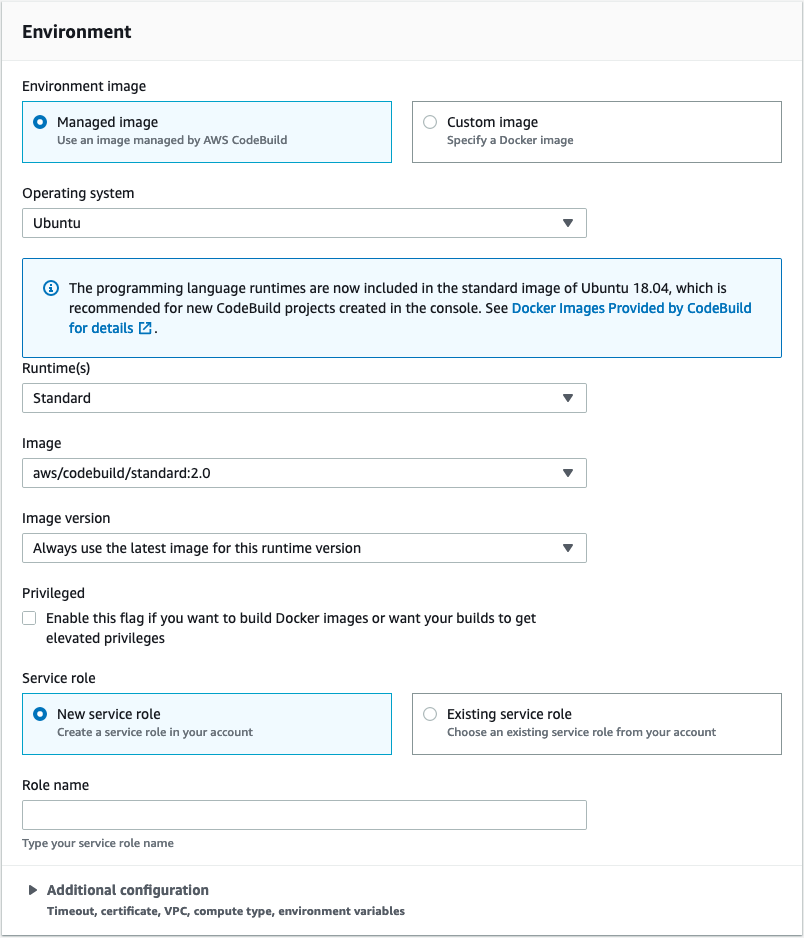
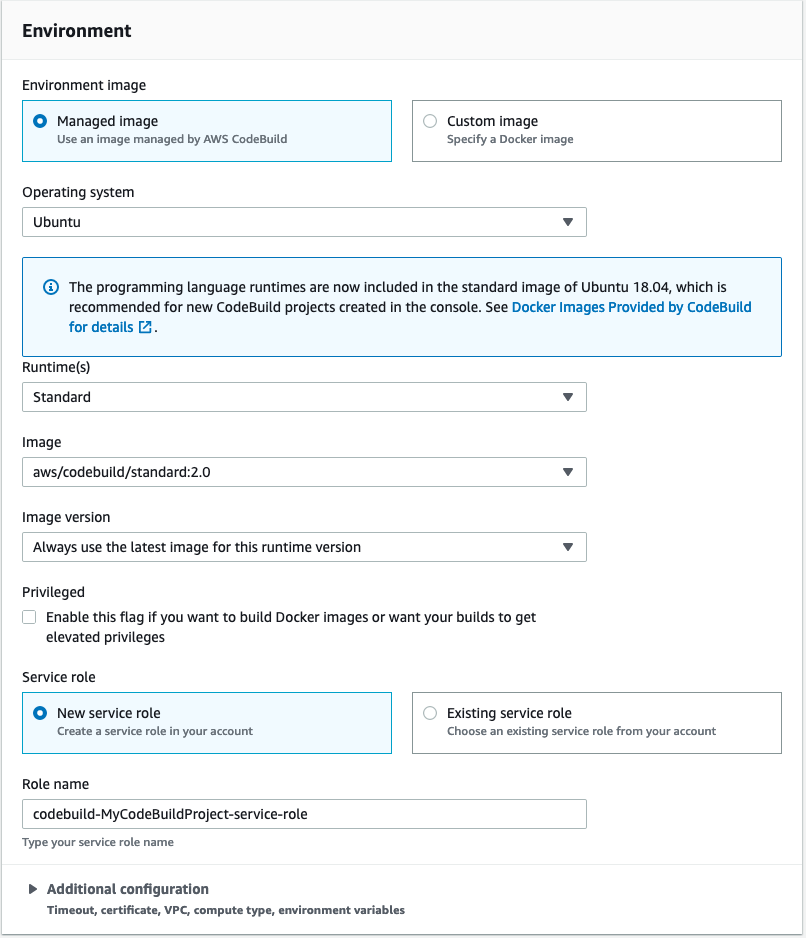
v3

diff --git a/1_Lab1.md b/1_Lab1.md
@@ -1,22 +1,12 @@
 ## Lab 1 - Build project on the cloud
 
-### Lab IAM Permissions
-As the AWS accounts you are about to use are **lab accounts**, they do not have permissions to make any changes to IAM settings. For any commands/steps that requires IAM Role ARN, please kindly use the pre-created role: **TeamRole**.
-
-https://console.aws.amazon.com/iam/home?region=ap-southeast-1#/roles/TeamRole
-
-***It will be useful to note down the ARN for Team Role which will be required throughout the lab***
-![TeamRole](img/teamrole.png)
-
 ### AWS Cloud9 IDE - Set up
 
-AWS Cloud9 is a cloud-based integrated development environment (IDE) that lets you write, run, and debug your code with just a browser. It includes a code editor, debugger, and terminal. Cloud9 comes pre-packaged with essential tools for popular programming languages and the AWS Command Line Interface (CLI) pre-installed so you don't need to install files or configure your laptop for this workshop. Your Cloud9 environment will have access to the same AWS resources as the user with which you logged into the AWS Management Console.
+**AWS Cloud9** is a cloud-based integrated development environment (IDE) that lets you write, run, and debug your code with just a browser. It includes a code editor, debugger, and terminal. Cloud9 comes pre-packaged with essential tools for popular programming languages and the AWS Command Line Interface (CLI) pre-installed so you don't need to install files or configure your laptop for this workshop. Your Cloud9 environment will have access to the same AWS resources as the user with which you logged into the AWS Management Console.
 
-Take a moment now and setup your Cloud9 development environment.
+Take a moment now to setup your Cloud9 development environment.
 
-### ✅  Step-by-step Instructions
-
-1. Go to the AWS Management Console, click **Services** then select **Cloud9** under Developer Tools.
+1. Head over to the [AWS Cloud9](https://ap-southeast-1.console.aws.amazon.com/cloud9/home?region=ap-southeast-1) console.
 2. Click **Create environment**.
 3. Enter `MyDevEnvironment` into **Name** and optionally provide a **Description**.
 
@@ -26,40 +16,44 @@ Take a moment now and setup your Cloud9 development environment.
 5. You may leave **Environment settings** at their defaults of launching a new **t2.micro** EC2 instance which will be paused after **30 minutes** of inactivity.
 6. Click **Next step**.
 7. Review the environment settings and click **Create environment**. It will take several minutes for your environment to be provisioned and prepared.
-8. Once ready, your IDE will open to a welcome screen. Below that, you should see a terminal prompt similar to: ![setup](./img/setup-cloud9-terminal.png) You can run AWS CLI commands in here just like you would on your local computer. Verify that your user is logged in by running the following command.
+8. Once ready, your IDE will open to a welcome screen. Below that, you should see a terminal prompt similar to:
 
-```console
-user:~/environment $ aws sts get-caller-identity
-```
+  ![setup](./img/setup-cloud9-terminal.png)
 
-You'll see output indicating your account and user information:
-```console
-{
-    "Account": "123456789012",
-    "UserId": "AKIAI44QH8DHBEXAMPLE",
-    "Arn": "arn:aws:iam::123456789012:user/user"
-}
-```
+  You can run AWS CLI commands in here just like you would on your local computer. Verify that your user is logged in by running the following command:
 
-Keep your AWS Cloud9 IDE opened in a tab throughout this workshop as we'll use it for activities like cloning, pushing changes to repository and using the AWS CLI.
+  ```console
+  user:~/environment $ aws sts get-caller-identity
+  ```
 
-### 💡 Tips
+  You'll see output indicating your account and user information:
+  ```console
+  {
+      "Account": "123456789123",
+      "UserId": "AROA4ABCDE2ABCKVTJQI:MasterKey",
+      "Arn": "arn:aws:sts::123456789123:assumed-role/TeamRole/MasterKey"
+  }
+  ```
 
-Keep an open scratch pad in Cloud9 or a text editor on your local computer for notes. When the step-by-step directions tell you to note something such as an ID or Amazon Resource Name (ARN), copy and paste that into the scratch pad.
+  > 💡 Tip: Keep your AWS Cloud9 IDE opened in a tab throughout this workshop as we'll use it for activities like cloning, pushing changes to repository and using the AWS CLI.
 
 ***
 
 ### Stage 1: Create an AWS CodeCommit Repository
+**AWS CodeCommit** is a fully-managed source control service that hosts secure Git-based repositories. It makes it easy for teams to collaborate on code in a secure and highly scalable ecosystem. CodeCommit eliminates the need to operate your own source control system or worry about scaling its infrastructure.
 
-**_To create the AWS CodeCommit repository (console)_**
+In this workshop, we will be using AWS CodeCommit as our code repository.
 
-1. Open the AWS CodeCommit console at <https://console.aws.amazon.com/codecommit>.
+1. Head over to the [AWS CodeCommit](https://console.aws.amazon.com/codecommit) console.
 
-2. On the Welcome page, choose Get Started Now. (If a **_Dashboard_** page appears instead, choose **_Create repository_**.)
+2. On the Welcome page, choose **Get Started Now**. (If a **_Dashboard_** page appears instead, choose **_Create repository_**.)
+
 3. On the **_Create repository_** page, in the **_Repository name_** box, type **_WebAppRepo_**.
-> It is advised that you use the same repository name, **_WebAppRepo_** as it will be used throughout this lab.
+
 4. In the **_Description_** box, optionally type in a description for this repository.
-![WebAppRepo](img/WebAppRepo.png)
+
+  ![WebAppRepo](img/WebAppRepo.png)
+
 5. Choose **_Create_** to create an empty AWS CodeCommit repository named **_WebAppRepo_**.
 
 **Note:** The remaining steps in this lab assume you have named your AWS CodeCommit repository **_WebAppRepo_**. If you use a name other than **_WebAppRepo_**, be sure to use it throughout this tutorial. For more information about creating repositories, including how to create a repository from the terminal or command line, see [Create a Repository](http://docs.aws.amazon.com/codecommit/latest/userguide/how-to-create-repository.html).
@@ -163,36 +157,7 @@ For more information, see [Browse the Contents of a Repository](http://docs.aws.
 
 ***
 
-### Stage 5: Create the Build Service Role
-**AWS CodeBuild** is a fully managed continuous integration service that compiles source code, runs tests, and produces software packages that are ready to deploy. With CodeBuild, you don’t need to provision, manage, and scale your own build servers. CodeBuild scales continuously and processes multiple builds concurrently.
-
-1. Let's now initialize a AWS CodeBuild project. Before we do that, let's create an IAM role for this Build service to give it permissions to call other AWS services on your behalf. Head over to [IAM Roles](https://console.aws.amazon.com/iam/home?#/roles) console.
-
-2. Click on **Create role**.
-
-3. Under **Select type of trusted entity**, choose **AWS service**.
-
-4. Under **Choose the service that will use this role** select **CodeBuild**.
-
-  ![Codebuild Role](img/codebuild-role.png)
-
-5. Click on **Next: Permissions**.
-
-6. Under **Attach permission policies**, check **AWSCodeBuildAdminAccess**.
-
-  ![Codebuild Policies](img/codebuild-policies.png)
-
-7. Click on **Next: Tags** to proceed.
-
-8. Click on **Next: Review**.
-
-9. Enter `CodeBuildRole` in **Role name**.
-
-10. Click on **Create role** to complete creating the role.
-
-***
-
-### Stage 6: Create the Build Service
+### Stage 5: Create the Build Service
 
 1. Head over to [AWS CodeBuild](https://ap-southeast-1.console.aws.amazon.com/codesuite/codebuild/projects?region=ap-southeast-1) console.
 
@@ -227,9 +192,9 @@ For more information, see [Browse the Contents of a Repository](http://docs.aws.
 
 14. Select **_Always use the latest image for this runtime version_** for the **Image version**.
 
-15. Select **_Existing service role_** for **Service role**.
+15. Select **_New service role_** for **Service role**.
 
-16. Select **_CodeBuildRole_** for **Role name**.
+16. Enter `codebuild-MyCodeBuildProject-service-role` for the **Role Name**. (this should be pre-filled for you)
 
   ![Codebuild Environment](img/codebuild-env.png)
 
@@ -254,7 +219,7 @@ For more information, see [Browse the Contents of a Repository](http://docs.aws.
 
 ***
 
-### Stage 7: Let's build the code on cloud
+### Stage 6: Let's build the code on cloud
 
 A buildspec is a collection of build commands and related settings in YAML format, that AWS CodeBuild uses to run a build. To learn more about the buildspec syntax and what it means, check out the documentation [here](https://docs.aws.amazon.com/codebuild/latest/userguide/build-spec-ref.html#build-spec-ref-syntax).
 

diff --git a/3_Lab3.md b/3_Lab3.md
@@ -1,31 +1,6 @@
 
 ## Lab 3 - Setup CI/CD using AWS CodePipeline
 
-### Stage 1: Create the Pipeline Service Role
-
-1. Let's now initialize an automated pipeline in AWS CodePipeline. Before we do that, let's create an IAM role for this Pipeline service to give it permissions to call other AWS services on your behalf. Head over to [IAM Roles](https://console.aws.amazon.com/iam/home?#/roles) console.
-
-2. Click on **Create role**.
-
-3. Under **Select type of trusted entity**, choose **AWS service**.
-
-4. Under **Choose the service that will use this role** select **CodePipeline**.
-
-5. Select **_CodeDeploy_** for **Use case**
-
-  ![Codebuild Role](img/codedeploy-role.png)
-
-6. Click on **Next: Permissions**.
-
-7. There should already be a policy **AWSCodeDeployRole** attached. Click on **Next: Tags** to proceed.
-
-8. Click on **Next: Review**.
-
-9. Enter `CodeDeployRole` in **Role name**.
-
-10. Click on **Create role** to complete creating the role.
-
-
 ### Stage 1: Create a Pipeline
 
 **AWS CodePipeline** is a fully managed continuous delivery service that helps you automate your release pipelines for fast and reliable application and infrastructure updates. CodePipeline automates the build, test, and deploy phases of your release process every time there is a code change, based on the release model you define.
@@ -36,35 +11,51 @@ When you use the pipeline wizard, AWS CodePipeline creates the names of stages (
 
 Also, existing pipeline configuration can be exported and used to create pipeline in another region.
 
-1. Sign in to the **AWS Management Console** and open the **AWS CodePipeline** console at [http://console.aws.amazon.com/codepipeline](http://console.aws.amazon.com/codepipeline).
-2. On the **CodePipeline Home** page, choose **Create pipeline**.
+1. Head over to the [AWS CodePipeline](http://console.aws.amazon.com/codepipeline) console.
 
+2. Click on **Create pipeline**.
 
-3. On the **Step 1: Choose pipeline settings** page, in the **Pipeline name** box, type the name for your pipeline (your choice)
+3. Enter `MyWebAppPipeline` for the **Pipeline name**.
 
-4. For **Service role**, Select **Existing service role** and choose the Role name from drop down **TeamRole**.
+4. Select **_New service role_** for **Service role**.
 
-5. Open up the **Advanced settings** tab, for **Artifact store**, Select **Custom location** and choose the Bucket from drop down starting with **cicd-workshop**, and then choose **Next step**.
+5. Enter `AWSCodePipelineServiceRole-ap-southeast-1-MyWebAppPipeline` for the **Role name** (should already be pre-populated).
+
+6. Open up the **Advanced settings** tab, for **Artifact store**, Select **Custom location** and choose the Bucket from drop down **_webapp-bucket-12345_** where **_12345_** is the bucket name you have defined, and then choose **Next**.
+
+  ![Pipeline Settings](img/codepipeline-settings.png)
 
 **_Note_**:
 Within a single AWS account, each pipeline you create in a region must have a unique name. Names can be reused for pipelines in different regions. After you create a pipeline, you cannot change its name. For information about other limitations, see [Limits in AWS CodePipeline](https://docs.aws.amazon.com/codepipeline/latest/userguide/limits.html).
 
-6. On the **Step 2: Source** page, in the **Source provider** drop-down list, select **AWS CodeCommit**.
+7. Select **_AWS CodeCommit_** for **Source provider**.
 
-7. In **Repository name**, choose **WebAppRepo**, which is the name of the AWS CodeCommit repository you created in Lab 1 to use as the source location for your pipeline.
+8. In **Repository name**, select **_WebAppRepo_**, which is the name of the AWS CodeCommit repository you created in Lab 1 to use as the source location for your pipeline.
 
-8. In **Branch name**, from the drop-down list, choose the **master** branch.
+9. In **Branch name**, from the drop-down list, choose the **_master_** branch.
 
-9. In **Change Detection Mode** select **AWS CodePipeline**. Choose **Next step**.
+10. In **Change Detection Mode** select **_AWS CodePipeline_**. Choose **Next step**.
 
-10. On the **Step 3: Build** page, for **Build Provider**, choose **AWS CodeBuild**, and in **Project name**, select **devops-webapp-project** which is the build project which we we created in Lab 1. Choose **Next**.
+  ![Codepipeline Source](img/codepipeline-source.png)
 
-11. On the **Step 4: Deploy** page, for **Deploy provider**, select **AWS CodeDeploy**, and in **Application name**, select **DevOps-WebApp**, which is the name of the application that was created in Lab2. For **Deployment group**, select **DevOps-WebApp-BetaGroup** which is the name of the deployment group that was created in Lab2. Choose **Next**.
+11. On the **Step 3: Build** page, for **Build Provider**, choose **_AWS CodeBuild_**
 
-12. On the **Step 5: Review** page, review your pipeline configuration, and then choose **Create pipeline** to create the pipeline.
+12. For **Project name**, select **_MyCodeBuildProject_** which is the build project which we we created in Lab 1 and choose **Next**.
+
+  ![Codepipeline Build](img/codepipeline-build.png)
+
+13. On the **Step 4: Deploy** page, for **Deploy provider**, select **AWS CodeDeploy**,
+
+14. For **Application name**, select **MyWebApp**, which is the name of the application that was created in Lab 2.
+
+15. For **Deployment group**, select **WebApp-Dev** which is the name of the deployment group that was created in Lab 2. Choose **Next**.
+
+  ![CodePipeline Deploy](img/codepipeline-deploy.png)
+
+16. On the **Step 5: Review** page, review your pipeline configuration, and then choose **Create pipeline** to create the pipeline.
 
 Image below shows successfully created pipeline.
-![pipeline-complete](./img/Lab3-Stage1-Complete.PNG)
+![pipeline-complete](img/Lab3-Stage1-Complete.PNG)
 
 10. Now that you've created your pipeline, you can view it in the console. Pipeline will start automatically in few minutes. Otherwise, test it by manually clicking the **Release** button.
 

diff --git a/2_Lab2.md b/2_Lab2.md
@@ -13,62 +13,25 @@ We will be using **AWS CloudFormation** to quickly deploy our Dev and Prod envir
 
 4. Select **_Amazon S3 URL_** for **Template source**.
 
-5. Paste ``
+5. Paste `https://aws-labs-workshops.s3-ap-southeast-1.amazonaws.com/aws-devops-workshop-environment-setup.template` in **Amazon S3 URL**.
 
-Run the CloudFormation stack using the following AWS CLI command:
+6. Click on **Next**.
 
-```console
-user:~/environment/WebAppRepo (master) $ aws cloudformation create-stack --stack-name DevopsWorkshop-Env \
---template-body https://yhlim-share.s3-ap-southeast-1.amazonaws.com/labs/devops/02-aws-devops-workshop-environment-setup.template
-```
-2. After the CloudFromation Stack has completed, go to view your [EC2 console](https://ap-southeast-1.console.aws.amazon.com/ec2/v2/home?region=ap-southeast-1#Instances:sort=desc:launchTime) to view the EC2 instances.
+7. Enter `MyWebStack` as **Stack name** and click on **Next**.
 
-**_Note_**
-  - The Stack will have a VPC w/ 1 public subnet, an IGW, route tables, ACL, 2 EC2 instances. Also, the EC2 instances will be launched with a User Data script to **automatically install the AWS CodeDeploy agent**.
+8. Accept the default stack options and click on **Next**.
 
-  - You can refer to [this instruction](http://docs.aws.amazon.com/codedeploy/latest/userguide/codedeploy-agent-operations-install.html) to install the CodeDeploy agent for other OSs like Amazon Linux, RHEL, Ubuntu, or Windows.
+9. Check **_I acknowledge that AWS CloudFormation might create IAM resources._** and click on **Create stack** to begin creating the stack. The stack creation process can take a couple of minutes. You may proceed to the next stage while the stack is building.
 
-#### Note: The additional steps below are required due to the IAM constraints of the Lab AWS Accounts. ####
+10. After the CloudFormation Stack has completed, you can go to the [EC2 console](https://ap-southeast-1.console.aws.amazon.com/ec2/v2/home?region=ap-southeast-1#Instances:sort=desc:launchTime) to view the EC2 instances.
 
-3. Attach IAM Role (Team Role) to the the Dev EC2 instance (DevWebApp01) created by selecting the instance and click on the ***Action Button -> Instance -> Instance Settings -> Attach/Detach IAM Role***.
-
-![AttachRole](./img/attach-role.png)
-
-4. Next find in the drop-down box the ***Team Role*** under IAM Role and click Apply.
-
-5. Repeat steps 2-4 for Production EC2 Instance (ProdWebApp01).
-
-6. Go to the [Security Group](https://ap-southeast-1.console.aws.amazon.com/ec2/v2/home?region=ap-southeast-1#SecurityGroups:Name=WebAppSG;sort=vpcId) section in the console.
-
-7. Look for ***WebAppSg*** Security Group and copy/remember the ***Group ID***.
-
-8. Select ***WebAppSG*** Security Group and click on the Inbound tab and click Edit.
-
-9. Add a new Rule, Type = SSH, Source = Custom, paste the ***Group ID*** copied earlier. Click Save.
-![sg-ssh](./img/sg-ssh.png)
-
-10. Go to [Systems Manager console](https://ap-southeast-1.console.aws.amazon.com/systems-manager/session-manager/sessions?region=ap-southeast-1) under Session Manager.
-
-11. Click ***Start Session***, select DevWebApp01 and click Update SSM Agent. Confirm Update SSM Agent. Go back to Systems Manager.
-![ssm-update](./img/ssm-update.png)
-
-12. You might have to repeat step 10-11 twice in order for the agent to be updated successfully.
-
-13. Go back to [Systems Manager console](https://ap-southeast-1.console.aws.amazon.com/systems-manager/session-manager/sessions?region=ap-southeast-1) and click ***Start Session***, select DevWebApp01 and click Start Session.
-
-14. Run the following command to restart the CodeDeploy Agent. ***It will take some time to restart, terminate the session after it ends***
-
-```console
-$ sudo service codedeploy-agent restart
-```
-
-15. Repeat steps 10-14 for Production EC2 Instance (ProdWebApp01).
-
+>**_Note:_** The Stack will have a VPC w/ 1 public subnet, an IGW, route tables, ACL, 2 EC2 instances. Also, the EC2 instances will be launched with a User Data script to **automatically install the AWS CodeDeploy agent**.
+>
+>You can refer to [this instruction](http://docs.aws.amazon.com/codedeploy/latest/userguide/codedeploy-agent-operations-install.html) to install the CodeDeploy agent for other OSs like Amazon Linux, RHEL, Ubuntu, or Windows.
 
 ***
 
-
-### Stage 1: Create the Deploy Service Role
+### Stage 2: Create the Deploy Service Role
 
 1. Let's now initialize a AWS CodeDeploy application deployment. Before we do that, let's create an IAM role for this Deploy service to give it permissions to call other AWS services on your behalf. Head over to [IAM Roles](https://console.aws.amazon.com/iam/home?#/roles) console.
 
